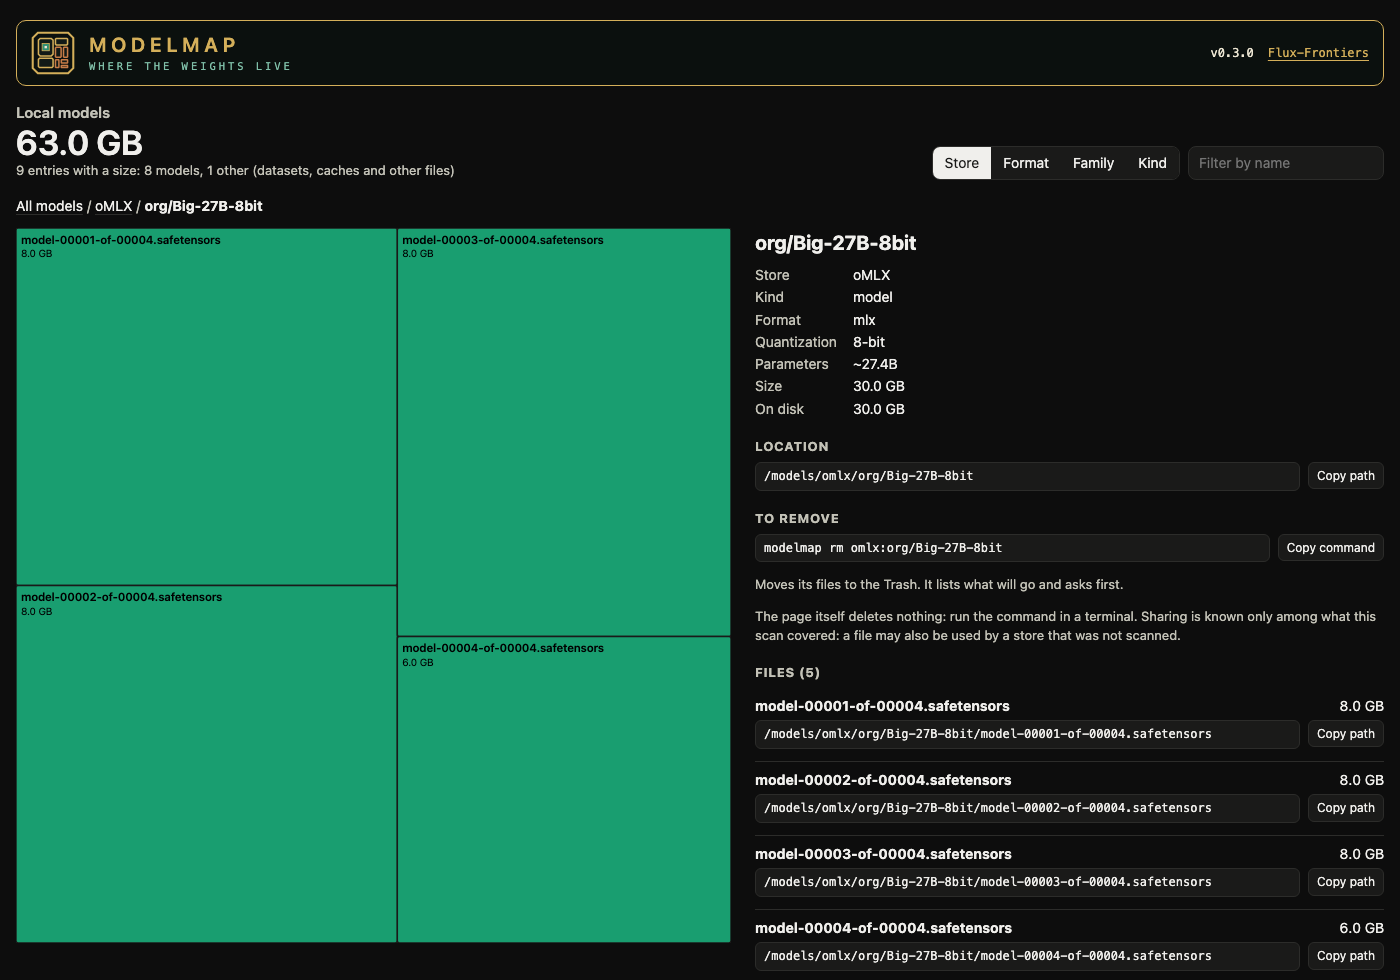
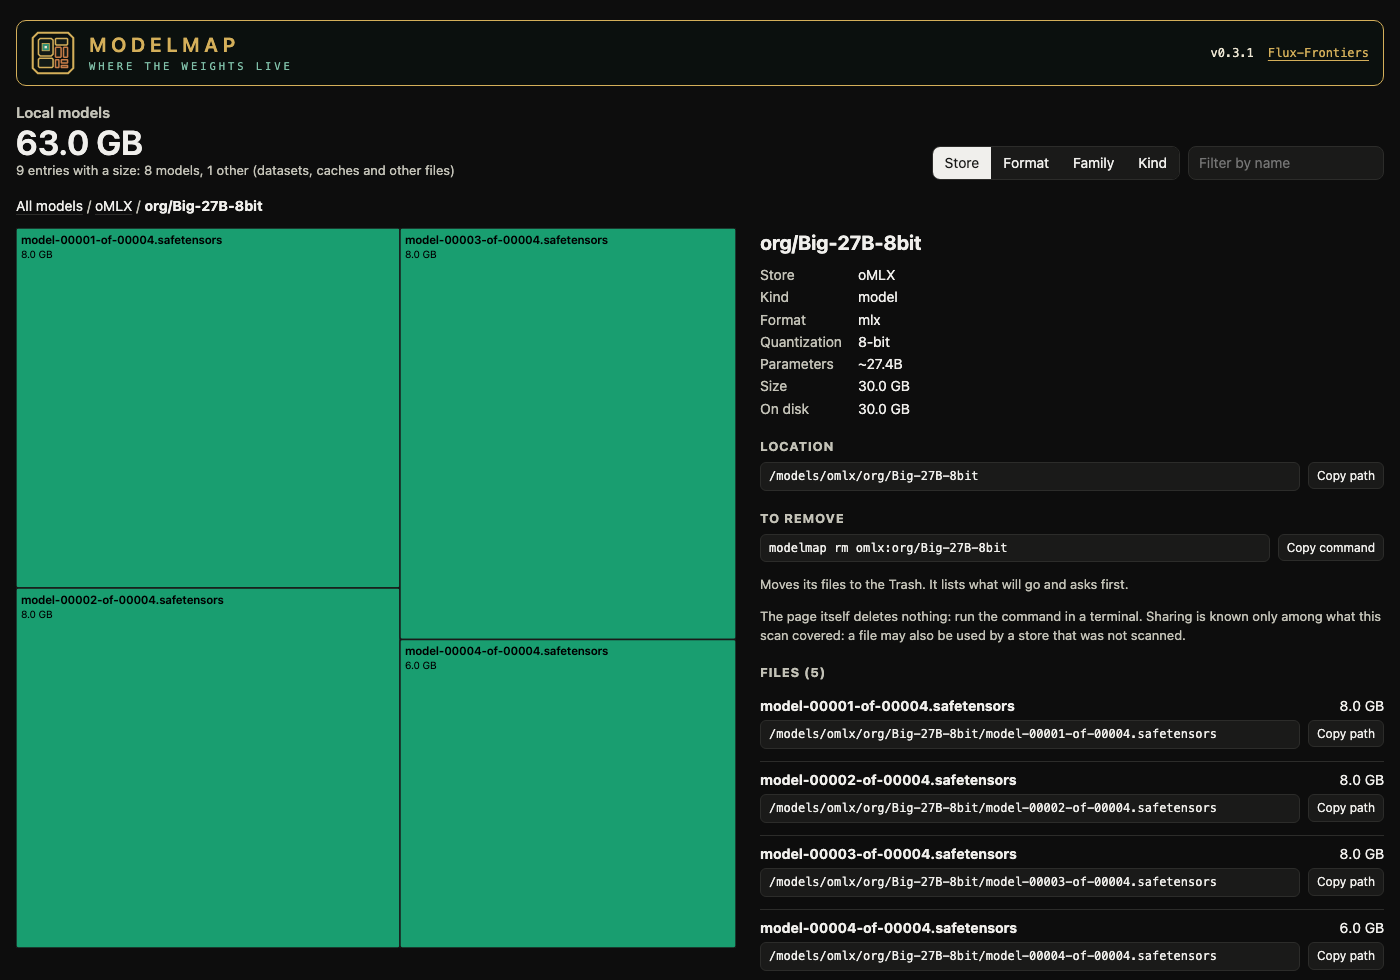
chore(release): v0.3.1 release notes

Changed region(s): [[0.0, 0.2143, 0.9829, 0.9796], [0.0, 0.5816, 0.3071, 0.6429], [0.2764, 0.2143, 0.3379, 0.2755]]

diff --git a/src/modelmap/__init__.py b/src/modelmap/__init__.py
@@ -1,3 +1,3 @@
 """modelmap: find local LLM model files and draw them as a treemap."""
 
-__version__ = "0.3.0"
+__version__ = "0.3.1"

diff --git a/release-notes.md b/release-notes.md
@@ -1,41 +1,29 @@
-# Release Notes: v0.3.0
+# Release Notes: v0.3.1
 
 > Released: 2026-11-26
 
-modelmap now comes as a Mac app. `modelmap-0.3.0.dmg`, attached to this
-release, holds a signed and notarized `modelmap.app`: the map in its own
-window, with the same Remove buttons as `modelmap serve`, and a Python
-inside it so the Mac needs nothing else installed. This release also makes
-Ollama removals safer.
+A fix release: the map fits the window again. The banner added in 0.2.0
+pushed the map down without shrinking it, so the bottom of the map sat
+below the window's edge in `modelmap serve`, the Mac app and the written
+page.
 
 ## What changed
 
-**The Mac app.** Open the disk image and drag modelmap to Applications. The
-app scans, shows the map, and removes models through the same code the
-command line runs. Its Map menu rescans, opens the page in a browser, and
-chooses folders or drives to scan, with or without the usual model stores
-and the home folder. A server log shows every removal and the command it
-ran, and Help explains each part. The app reads your login shell's
-settings, so stores moved by `HF_HOME` or `OLLAMA_MODELS` are found. It
-needs macOS 15 or later on Apple silicon.
+**The map fits the window.** The page now measures where the map starts
+and sizes the square to the space left, so it fits at any window size,
+including narrow windows where the header wraps onto two lines. In the
+one-column layout of a narrow window the map is no taller than the window
+either, down to a 320 px minimum.
 
-**Safer Ollama removal.** Two gaps are closed. A removal used to count as
-done when Ollama could not be asked afterward; it now counts only when
-Ollama answers without the tags and the scanned store no longer holds
-them. And matching tag names was not proof that the running Ollama owns
-the store that was scanned: each tag's ID must now match the scanned
-manifest, and an `OLLAMA_HOST` that names another machine is refused. In
-either case nothing is removed, and the dialog says why.
-
-**`--sweep`.** Naming a folder or a store turns off the sweep of the home
-folder. `--sweep` keeps it, so `modelmap map --sweep /Volumes/Drive` maps
-an external drive together with everything the default scan finds.
+**Smaller fixes.** In the Mac app's Help, rows of the Menus table without
+a keyboard shortcut no longer leave a gap. The README screenshots show the
+banner, and `scripts/screenshots.py` retakes them from example data.
 
 ## Upgrading
 
-Upgrade the command with `pipx upgrade modelmap` or `pip install -U
-modelmap`; nothing needs migrating. For the app, download the disk image
-from this release.
+`pipx upgrade modelmap` or `pip install -U modelmap`; nothing needs
+migrating. The Mac app: download `modelmap-0.3.1.dmg` from this release
+and replace the old copy in Applications.
 
 ---
 

diff --git a/README.md b/README.md
@@ -5,7 +5,7 @@
 [![CI](https://github.com/Flux-Frontiers/modelmap/actions/workflows/ci.yml/badge.svg)](https://github.com/Flux-Frontiers/modelmap/actions/workflows/ci.yml)
 [![Python](https://img.shields.io/badge/python-3.10%20%7C%203.11%20%7C%203.12%20%7C%203.13-blue.svg)](https://www.python.org/)
 [![License: BSD-3-Clause](https://img.shields.io/badge/License-BSD%203--Clause-blue.svg)](https://github.com/Flux-Frontiers/modelmap/blob/main/LICENSE)
-[![Version](https://img.shields.io/badge/version-0.3.0-blue.svg)](https://github.com/Flux-Frontiers/modelmap/releases)
+[![Version](https://img.shields.io/badge/version-0.3.1-blue.svg)](https://github.com/Flux-Frontiers/modelmap/releases)
 [![Poetry](https://img.shields.io/endpoint?url=https://python-poetry.org/badge/v0.json)](https://python-poetry.org/)
 [![DOI](https://img.shields.io/badge/DOI-10.5281%2Fzenodo.24520428-blue.svg)](https://doi.org/10.5281/zenodo.24520428)
 [![pre-commit](https://img.shields.io/badge/pre--commit-enabled-brightgreen?logo=pre-commit)](https://pre-commit.com/)
@@ -110,13 +110,13 @@ poetry run mkdocs serve        # the docs site at http://127.0.0.1:8000
 
 If you use modelmap in your research or project, please cite it:
 
-> Suchanek, E. G. (2026). *modelmap: Find, Map and Remove Local LLM Models* (Version 0.3.0) [Software]. Flux-Frontiers. https://doi.org/10.5281/zenodo.24520428
+> Suchanek, E. G. (2026). *modelmap: Find, Map and Remove Local LLM Models* (Version 0.3.1) [Software]. Flux-Frontiers. https://doi.org/10.5281/zenodo.24520428
 
 ```bibtex
 @software{suchanek_modelmap,
   author    = {Suchanek, Eric G.},
   title     = {{modelmap}: Find, Map and Remove Local LLM Models},
-  version   = {0.3.0},
+  version   = {0.3.1},
   year      = {2026},
   publisher = {Flux-Frontiers},
   url       = {https://github.com/Flux-Frontiers/modelmap},

diff --git a/CHANGELOG.md b/CHANGELOG.md
@@ -7,12 +7,20 @@ and this project adheres to [Semantic Versioning](https://semver.org/spec/v2.0.0
 
 ## [Unreleased]
 
+## [0.3.1] - 2026-11-26
+
 ### Fixed
 
 - **The map was taller than the window.** Its square was sized for the
   page before the banner, so its bottom sat below the window's edge in
-  `serve`, the Mac app and the written page. It now fits under the
-  banner. The README screenshots are retaken with the banner, by
+  `serve`, the Mac app and the written page. The page now measures where
+  the map starts, so the square fits the window at any width, including
+  when the header wraps; in the one-column layout of a narrow window it is
+  no taller than the window either, down to 320 px. Checked at five
+  window sizes from 1440 x 900 to 400 x 800.
+- **Help in the Mac app.** Rows of the Menus table without a shortcut left
+  a gap under them.
+- The README screenshots are retaken with the banner, by
   `scripts/screenshots.py` from example data.
 
 ## [0.3.0] - 2026-11-26
